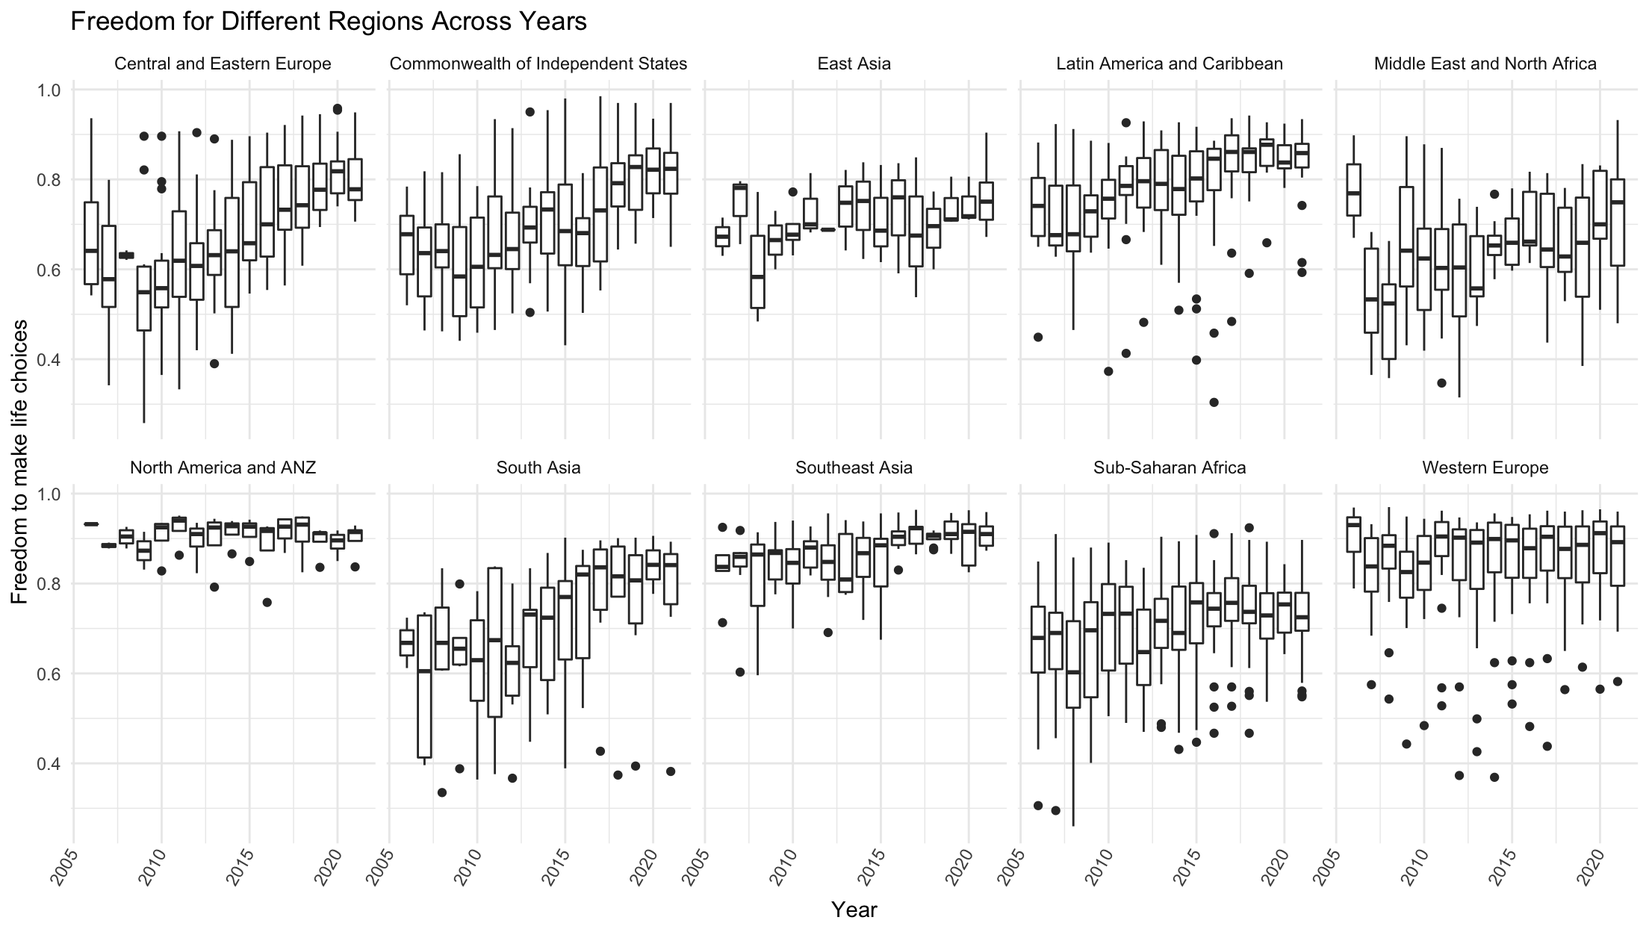
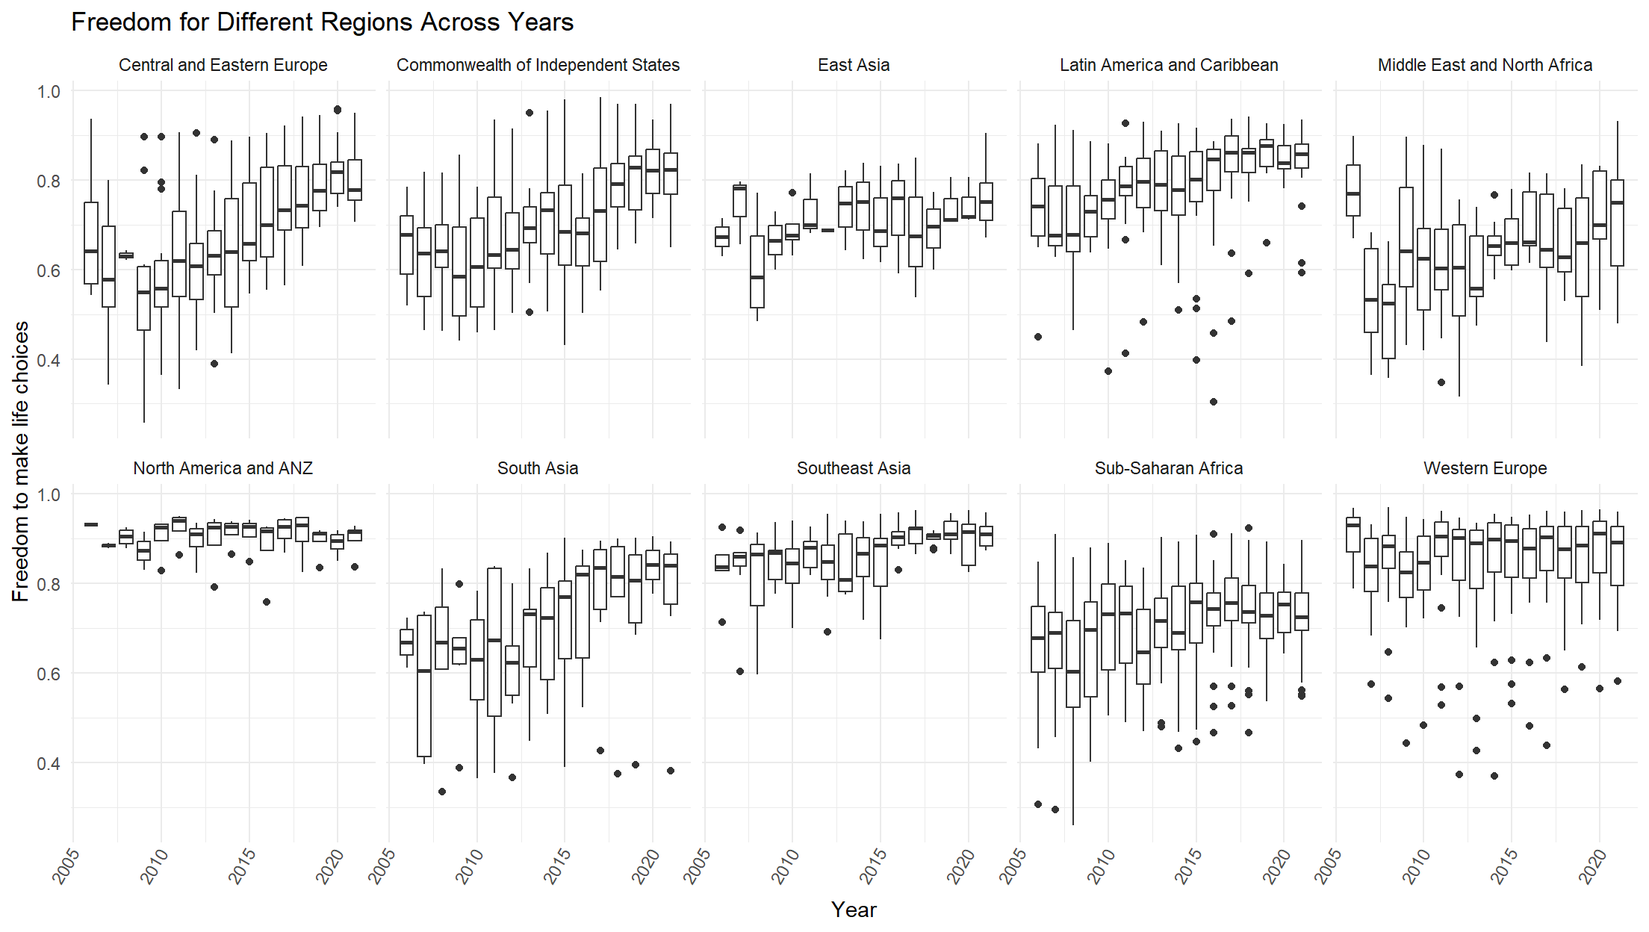
change theme

diff --git a/geospatial.html b/geospatial.html
@@ -16,7 +16,7 @@
 <script src="site_libs/header-attrs-2.18/header-attrs.js"></script>
 <script src="site_libs/jquery-3.6.0/jquery-3.6.0.min.js"></script>
 <meta name="viewport" content="width=device-width, initial-scale=1" />
-<link href="site_libs/bootstrap-3.3.5/css/bootstrap.min.css" rel="stylesheet" />
+<link href="site_libs/bootstrap-3.3.5/css/cosmo.min.css" rel="stylesheet" />
 <script src="site_libs/bootstrap-3.3.5/js/bootstrap.min.js"></script>
 <script src="site_libs/bootstrap-3.3.5/shim/html5shiv.min.js"></script>
 <script src="site_libs/bootstrap-3.3.5/shim/respond.min.js"></script>
@@ -343,8 +343,8 @@ for (i in 1:length(code_name)){
 fig &lt;- plot_ly(happy, type=&#39;choropleth&#39;, locations=happy$code, z=happy$mean_ladder_score, text=happy$country_name,colorscale = &quot;Viridis&quot;)
 
 fig %&gt;% layout(geo = g)</code></pre>
-<div id="htmlwidget-1625172abdde5f74ae58" style="width:672px;height:480px;" class="plotly html-widget"></div>
-<script type="application/json" data-for="htmlwidget-1625172abdde5f74ae58">{"x":{"visdat":{"39604433299f":["function () ","plotlyVisDat"]},"cur_data":"39604433299f","attrs":{"39604433299f":{"locations":["AFG","ALB","DZA","ARG","ARM","AUS","AUT","AZE","BHR","BGD","BLR","BEL","BEN","BOL","BIH","BWA","BRA","BGR","BFA","BDI","KHM","CMR","CAN","TCD","CHL","CHN","COL","COM","COG","CRI","HRV",null,"CZE","DNK","DOM","ECU","EGY","SLV","EST","ETH","FIN","FRA","GAB","GMB","GEO","DEU","GHA","GRC","GTM","GIN","HTI","HND","HKG","HUN","ISL","IND","IDN","IRN","IRQ","IRL","ISR","ITA","CIV","JAM","JPN","JOR","KAZ","KEN","KSV","KWT","KGZ","LAO","LVA","LBN","LSO","LBR","LBY","LTU","LUX","MDG","MWI","MYS","MDV","MLI","MLT","MRT","MUS","MEX","MDA","MNG","MNE","MAR","MOZ","MMR","NAM","NPL","NLD","NZL","NIC","NER","NGA","CYP","MKD","NOR","PAK","PSE","PAN","PRY","PER","PHL","POL","PRT","ROU","RUS","RWA","SAU","SEN","SRB","SLE","SGP","SVK","SVN","ZAF","KOR","ESP","LKA","SWZ","SWE","CHE","TWN","TJK","TZA","THA","TGO","TUN","TUR","TKM","UGA","UKR","ARE","GBR","USA","URY","UZB","VEN","VNM","YEM","ZMB","ZWE"],"z":[3.51223076923077,5.02635714285714,5.141,6.2863125,4.56486666666667,7.27078571428571,7.24407142857143,4.95633333333333,5.77725,4.771375,5.5686,6.95092857142857,4.12461538461538,5.7323125,5.23521428571429,3.95561538461538,6.59614285714286,4.62730769230769,4.21578571428571,3.586,4.27864285714286,4.6548125,7.34628571428571,4.0658,6.345125,5.339,6.23375,3.99328571428571,4.6179,7.172,5.64614285714286,6.10207692307692,6.63558333333333,7.6538,5.2366875,5.742,4.46222222222222,5.95875,5.67013333333333,4.36733333333333,7.61464285714286,6.6428,4.4769,4.81375,4.3200625,6.90428571428571,4.8358125,5.52971428571429,6.26533333333333,4.1997,3.92591666666667,5.42766666666667,5.477,5.36385714285714,7.449125,4.37126666666667,5.2354,4.87733333333333,4.6875,7.06886666666667,7.21733333333333,6.2606,4.6755,5.87285714285714,5.97871428571429,5.331,5.82775,4.4156875,6.372,6.39125,5.20575,5.02011111111111,5.46753333333333,4.91678571428571,3.905,4.1051,5.527,5.8526875,7.07025,4.00154545454545,4.01976923076923,5.76376923076923,5.198,4.28328571428571,6.65385714285714,4.39828571428571,5.887,6.68033333333333,5.6230625,5.10228571428571,5.331,5.0733,4.69588888888889,4.36866666666667,4.59942857142857,4.73964285714286,7.46628571428571,7.30806666666667,5.64973333333333,4.30886666666667,4.99535714285714,5.536,4.92828571428571,7.50145454545455,5.22171428571429,4.4454,6.65013333333333,5.56578571428571,5.61066666666667,5.256875,5.97078571428571,5.47621428571429,5.60976923076923,5.518125,3.58775,6.48433333333333,4.4878,5.30471428571429,4.09184615384615,6.49761538461538,6.08446153846154,6.08271428571429,4.86446666666667,5.8644,6.4656,4.30964285714286,4.44575,7.3686,7.55036363636364,6.1375,4.86238461538462,3.6926875,6.0810625,3.6102,4.72008333333333,5.25386666666667,5.066,4.324875,4.7741875,6.8145,6.92293333333333,7.0435,6.2724375,5.991,6.11325,5.36936363636364,3.974125,4.5198,3.8365],"text":["Afghanistan","Albania","Algeria","Argentina","Armenia","Australia","Austria","Azerbaijan","Bahrain","Bangladesh","Belarus","Belgium","Benin","Bolivia","Bosnia and Herzegovina","Botswana","Brazil","Bulgaria","Burkina Faso","Burundi","Cambodia","Cameroon","Canada","Chad","Chile","China","Colombia","Comoros","Congo (Brazzaville)","Costa Rica","Croatia","Cyprus","Czech Republic","Denmark","Dominican Republic","Ecuador","Egypt","El Salvador","Estonia","Ethiopia","Finland","France","Gabon","Gambia","Georgia","Germany","Ghana","Greece","Guatemala","Guinea","Haiti","Honduras","Hong Kong S.A.R. of China","Hungary","Iceland","India","Indonesia","Iran","Iraq","Ireland","Israel","Italy","Ivory Coast","Jamaica","Japan","Jordan","Kazakhstan","Kenya","Kosovo","Kuwait","Kyrgyzstan","Laos","Latvia","Lebanon","Lesotho","Liberia","Libya","Lithuania","Luxembourg","Madagascar","Malawi","Malaysia","Maldives","Mali","Malta","Mauritania","Mauritius","Mexico","Moldova","Mongolia","Montenegro","Morocco","Mozambique","Myanmar","Namibia","Nepal","Netherlands","New Zealand","Nicaragua","Niger","Nigeria","North Cyprus","North Macedonia","Norway","Pakistan","Palestinian Territories","Panama","Paraguay","Peru","Philippines","Poland","Portugal","Romania","Russia","Rwanda","Saudi Arabia","Senegal","Serbia","Sierra Leone","Singapore","Slovakia","Slovenia","South Africa","South Korea","Spain","Sri Lanka","Swaziland","Sweden","Switzerland","Taiwan Province of China","Tajikistan","Tanzania","Thailand","Togo","Tunisia","Turkey","Turkmenistan","Uganda","Ukraine","United Arab Emirates","United Kingdom","United States","Uruguay","Uzbekistan","Venezuela","Vietnam","Yemen","Zambia","Zimbabwe"],"colorscale":"Viridis","alpha_stroke":1,"sizes":[10,100],"spans":[1,20],"type":"choropleth"}},"layout":{"margin":{"b":40,"l":60,"t":25,"r":10},"geo":{"projection":{"type":"world"}},"scene":{"zaxis":{"title":[]}},"hovermode":"closest","showlegend":false,"legend":{"yanchor":"top","y":0.5}},"source":"A","config":{"modeBarButtonsToAdd":["hoverclosest","hovercompare"],"showSendToCloud":false},"data":[{"colorbar":{"title":"","ticklen":2,"len":0.5,"lenmode":"fraction","y":1,"yanchor":"top"},"colorscale":"Viridis","showscale":true,"locations":["AFG","ALB","DZA","ARG","ARM","AUS","AUT","AZE","BHR","BGD","BLR","BEL","BEN","BOL","BIH","BWA","BRA","BGR","BFA","BDI","KHM","CMR","CAN","TCD","CHL","CHN","COL","COM","COG","CRI","HRV",null,"CZE","DNK","DOM","ECU","EGY","SLV","EST","ETH","FIN","FRA","GAB","GMB","GEO","DEU","GHA","GRC","GTM","GIN","HTI","HND","HKG","HUN","ISL","IND","IDN","IRN","IRQ","IRL","ISR","ITA","CIV","JAM","JPN","JOR","KAZ","KEN","KSV","KWT","KGZ","LAO","LVA","LBN","LSO","LBR","LBY","LTU","LUX","MDG","MWI","MYS","MDV","MLI","MLT","MRT","MUS","MEX","MDA","MNG","MNE","MAR","MOZ","MMR","NAM","NPL","NLD","NZL","NIC","NER","NGA","CYP","MKD","NOR","PAK","PSE","PAN","PRY","PER","PHL","POL","PRT","ROU","RUS","RWA","SAU","SEN","SRB","SLE","SGP","SVK","SVN","ZAF","KOR","ESP","LKA","SWZ","SWE","CHE","TWN","TJK","TZA","THA","TGO","TUN","TUR","TKM","UGA","UKR","ARE","GBR","USA","URY","UZB","VEN","VNM","YEM","ZMB","ZWE"],"z":[3.51223076923077,5.02635714285714,5.141,6.2863125,4.56486666666667,7.27078571428571,7.24407142857143,4.95633333333333,5.77725,4.771375,5.5686,6.95092857142857,4.12461538461538,5.7323125,5.23521428571429,3.95561538461538,6.59614285714286,4.62730769230769,4.21578571428571,3.586,4.27864285714286,4.6548125,7.34628571428571,4.0658,6.345125,5.339,6.23375,3.99328571428571,4.6179,7.172,5.64614285714286,6.10207692307692,6.63558333333333,7.6538,5.2366875,5.742,4.46222222222222,5.95875,5.67013333333333,4.36733333333333,7.61464285714286,6.6428,4.4769,4.81375,4.3200625,6.90428571428571,4.8358125,5.52971428571429,6.26533333333333,4.1997,3.92591666666667,5.42766666666667,5.477,5.36385714285714,7.449125,4.37126666666667,5.2354,4.87733333333333,4.6875,7.06886666666667,7.21733333333333,6.2606,4.6755,5.87285714285714,5.97871428571429,5.331,5.82775,4.4156875,6.372,6.39125,5.20575,5.02011111111111,5.46753333333333,4.91678571428571,3.905,4.1051,5.527,5.8526875,7.07025,4.00154545454545,4.01976923076923,5.76376923076923,5.198,4.28328571428571,6.65385714285714,4.39828571428571,5.887,6.68033333333333,5.6230625,5.10228571428571,5.331,5.0733,4.69588888888889,4.36866666666667,4.59942857142857,4.73964285714286,7.46628571428571,7.30806666666667,5.64973333333333,4.30886666666667,4.99535714285714,5.536,4.92828571428571,7.50145454545455,5.22171428571429,4.4454,6.65013333333333,5.56578571428571,5.61066666666667,5.256875,5.97078571428571,5.47621428571429,5.60976923076923,5.518125,3.58775,6.48433333333333,4.4878,5.30471428571429,4.09184615384615,6.49761538461538,6.08446153846154,6.08271428571429,4.86446666666667,5.8644,6.4656,4.30964285714286,4.44575,7.3686,7.55036363636364,6.1375,4.86238461538462,3.6926875,6.0810625,3.6102,4.72008333333333,5.25386666666667,5.066,4.324875,4.7741875,6.8145,6.92293333333333,7.0435,6.2724375,5.991,6.11325,5.36936363636364,3.974125,4.5198,3.8365],"text":["Afghanistan","Albania","Algeria","Argentina","Armenia","Australia","Austria","Azerbaijan","Bahrain","Bangladesh","Belarus","Belgium","Benin","Bolivia","Bosnia and Herzegovina","Botswana","Brazil","Bulgaria","Burkina Faso","Burundi","Cambodia","Cameroon","Canada","Chad","Chile","China","Colombia","Comoros","Congo (Brazzaville)","Costa Rica","Croatia","Cyprus","Czech Republic","Denmark","Dominican Republic","Ecuador","Egypt","El Salvador","Estonia","Ethiopia","Finland","France","Gabon","Gambia","Georgia","Germany","Ghana","Greece","Guatemala","Guinea","Haiti","Honduras","Hong Kong S.A.R. of China","Hungary","Iceland","India","Indonesia","Iran","Iraq","Ireland","Israel","Italy","Ivory Coast","Jamaica","Japan","Jordan","Kazakhstan","Kenya","Kosovo","Kuwait","Kyrgyzstan","Laos","Latvia","Lebanon","Lesotho","Liberia","Libya","Lithuania","Luxembourg","Madagascar","Malawi","Malaysia","Maldives","Mali","Malta","Mauritania","Mauritius","Mexico","Moldova","Mongolia","Montenegro","Morocco","Mozambique","Myanmar","Namibia","Nepal","Netherlands","New Zealand","Nicaragua","Niger","Nigeria","North Cyprus","North Macedonia","Norway","Pakistan","Palestinian Territories","Panama","Paraguay","Peru","Philippines","Poland","Portugal","Romania","Russia","Rwanda","Saudi Arabia","Senegal","Serbia","Sierra Leone","Singapore","Slovakia","Slovenia","South Africa","South Korea","Spain","Sri Lanka","Swaziland","Sweden","Switzerland","Taiwan Province of China","Tajikistan","Tanzania","Thailand","Togo","Tunisia","Turkey","Turkmenistan","Uganda","Ukraine","United Arab Emirates","United Kingdom","United States","Uruguay","Uzbekistan","Venezuela","Vietnam","Yemen","Zambia","Zimbabwe"],"type":"choropleth","marker":{"line":{"color":"rgba(31,119,180,1)"}},"frame":null}],"highlight":{"on":"plotly_click","persistent":false,"dynamic":false,"selectize":false,"opacityDim":0.2,"selected":{"opacity":1},"debounce":0},"shinyEvents":["plotly_hover","plotly_click","plotly_selected","plotly_relayout","plotly_brushed","plotly_brushing","plotly_clickannotation","plotly_doubleclick","plotly_deselect","plotly_afterplot","plotly_sunburstclick"],"base_url":"https://plot.ly"},"evals":[],"jsHooks":[]}</script>
+<div id="htmlwidget-b182a664ca8fcbdc848c" style="width:672px;height:480px;" class="plotly html-widget"></div>
+<script type="application/json" data-for="htmlwidget-b182a664ca8fcbdc848c">{"x":{"visdat":{"5aa428dd4482":["function () ","plotlyVisDat"]},"cur_data":"5aa428dd4482","attrs":{"5aa428dd4482":{"locations":["AFG","ALB","DZA","ARG","ARM","AUS","AUT","AZE","BHR","BGD","BLR","BEL","BEN","BOL","BIH","BWA","BRA","BGR","BFA","BDI","KHM","CMR","CAN","TCD","CHL","CHN","COL","COM","COG","CRI","HRV",null,"CZE","DNK","DOM","ECU","EGY","SLV","EST","ETH","FIN","FRA","GAB","GMB","GEO","DEU","GHA","GRC","GTM","GIN","HTI","HND","HKG","HUN","ISL","IND","IDN","IRN","IRQ","IRL","ISR","ITA","CIV","JAM","JPN","JOR","KAZ","KEN","KSV","KWT","KGZ","LAO","LVA","LBN","LSO","LBR","LBY","LTU","LUX","MDG","MWI","MYS","MDV","MLI","MLT","MRT","MUS","MEX","MDA","MNG","MNE","MAR","MOZ","MMR","NAM","NPL","NLD","NZL","NIC","NER","NGA","CYP","MKD","NOR","PAK","PSE","PAN","PRY","PER","PHL","POL","PRT","ROU","RUS","RWA","SAU","SEN","SRB","SLE","SGP","SVK","SVN","ZAF","KOR","ESP","LKA","SWZ","SWE","CHE","TWN","TJK","TZA","THA","TGO","TUN","TUR","TKM","UGA","UKR","ARE","GBR","USA","URY","UZB","VEN","VNM","YEM","ZMB","ZWE"],"z":[3.51223076923077,5.02635714285714,5.141,6.2863125,4.56486666666667,7.27078571428571,7.24407142857143,4.95633333333333,5.77725,4.771375,5.5686,6.95092857142857,4.12461538461538,5.7323125,5.23521428571429,3.95561538461538,6.59614285714286,4.62730769230769,4.21578571428571,3.586,4.27864285714286,4.6548125,7.34628571428571,4.0658,6.345125,5.339,6.23375,3.99328571428571,4.6179,7.172,5.64614285714286,6.10207692307692,6.63558333333333,7.6538,5.2366875,5.742,4.46222222222222,5.95875,5.67013333333333,4.36733333333333,7.61464285714286,6.6428,4.4769,4.81375,4.3200625,6.90428571428571,4.8358125,5.52971428571429,6.26533333333333,4.1997,3.92591666666667,5.42766666666667,5.477,5.36385714285714,7.449125,4.37126666666667,5.2354,4.87733333333333,4.6875,7.06886666666667,7.21733333333333,6.2606,4.6755,5.87285714285714,5.97871428571429,5.331,5.82775,4.4156875,6.372,6.39125,5.20575,5.02011111111111,5.46753333333333,4.91678571428571,3.905,4.1051,5.527,5.8526875,7.07025,4.00154545454545,4.01976923076923,5.76376923076923,5.198,4.28328571428571,6.65385714285714,4.39828571428571,5.887,6.68033333333333,5.6230625,5.10228571428571,5.331,5.0733,4.69588888888889,4.36866666666667,4.59942857142857,4.73964285714286,7.46628571428571,7.30806666666667,5.64973333333333,4.30886666666667,4.99535714285714,5.536,4.92828571428571,7.50145454545455,5.22171428571429,4.4454,6.65013333333333,5.56578571428571,5.61066666666667,5.256875,5.97078571428571,5.47621428571429,5.60976923076923,5.518125,3.58775,6.48433333333333,4.4878,5.30471428571429,4.09184615384615,6.49761538461538,6.08446153846154,6.08271428571429,4.86446666666667,5.8644,6.4656,4.30964285714286,4.44575,7.3686,7.55036363636364,6.1375,4.86238461538462,3.6926875,6.0810625,3.6102,4.72008333333333,5.25386666666667,5.066,4.324875,4.7741875,6.8145,6.92293333333333,7.0435,6.2724375,5.991,6.11325,5.36936363636364,3.974125,4.5198,3.8365],"text":["Afghanistan","Albania","Algeria","Argentina","Armenia","Australia","Austria","Azerbaijan","Bahrain","Bangladesh","Belarus","Belgium","Benin","Bolivia","Bosnia and Herzegovina","Botswana","Brazil","Bulgaria","Burkina Faso","Burundi","Cambodia","Cameroon","Canada","Chad","Chile","China","Colombia","Comoros","Congo (Brazzaville)","Costa Rica","Croatia","Cyprus","Czech Republic","Denmark","Dominican Republic","Ecuador","Egypt","El Salvador","Estonia","Ethiopia","Finland","France","Gabon","Gambia","Georgia","Germany","Ghana","Greece","Guatemala","Guinea","Haiti","Honduras","Hong Kong S.A.R. of China","Hungary","Iceland","India","Indonesia","Iran","Iraq","Ireland","Israel","Italy","Ivory Coast","Jamaica","Japan","Jordan","Kazakhstan","Kenya","Kosovo","Kuwait","Kyrgyzstan","Laos","Latvia","Lebanon","Lesotho","Liberia","Libya","Lithuania","Luxembourg","Madagascar","Malawi","Malaysia","Maldives","Mali","Malta","Mauritania","Mauritius","Mexico","Moldova","Mongolia","Montenegro","Morocco","Mozambique","Myanmar","Namibia","Nepal","Netherlands","New Zealand","Nicaragua","Niger","Nigeria","North Cyprus","North Macedonia","Norway","Pakistan","Palestinian Territories","Panama","Paraguay","Peru","Philippines","Poland","Portugal","Romania","Russia","Rwanda","Saudi Arabia","Senegal","Serbia","Sierra Leone","Singapore","Slovakia","Slovenia","South Africa","South Korea","Spain","Sri Lanka","Swaziland","Sweden","Switzerland","Taiwan Province of China","Tajikistan","Tanzania","Thailand","Togo","Tunisia","Turkey","Turkmenistan","Uganda","Ukraine","United Arab Emirates","United Kingdom","United States","Uruguay","Uzbekistan","Venezuela","Vietnam","Yemen","Zambia","Zimbabwe"],"colorscale":"Viridis","alpha_stroke":1,"sizes":[10,100],"spans":[1,20],"type":"choropleth"}},"layout":{"margin":{"b":40,"l":60,"t":25,"r":10},"geo":{"projection":{"type":"world"}},"scene":{"zaxis":{"title":[]}},"hovermode":"closest","showlegend":false,"legend":{"yanchor":"top","y":0.5}},"source":"A","config":{"modeBarButtonsToAdd":["hoverclosest","hovercompare"],"showSendToCloud":false},"data":[{"colorbar":{"title":"","ticklen":2,"len":0.5,"lenmode":"fraction","y":1,"yanchor":"top"},"colorscale":"Viridis","showscale":true,"locations":["AFG","ALB","DZA","ARG","ARM","AUS","AUT","AZE","BHR","BGD","BLR","BEL","BEN","BOL","BIH","BWA","BRA","BGR","BFA","BDI","KHM","CMR","CAN","TCD","CHL","CHN","COL","COM","COG","CRI","HRV",null,"CZE","DNK","DOM","ECU","EGY","SLV","EST","ETH","FIN","FRA","GAB","GMB","GEO","DEU","GHA","GRC","GTM","GIN","HTI","HND","HKG","HUN","ISL","IND","IDN","IRN","IRQ","IRL","ISR","ITA","CIV","JAM","JPN","JOR","KAZ","KEN","KSV","KWT","KGZ","LAO","LVA","LBN","LSO","LBR","LBY","LTU","LUX","MDG","MWI","MYS","MDV","MLI","MLT","MRT","MUS","MEX","MDA","MNG","MNE","MAR","MOZ","MMR","NAM","NPL","NLD","NZL","NIC","NER","NGA","CYP","MKD","NOR","PAK","PSE","PAN","PRY","PER","PHL","POL","PRT","ROU","RUS","RWA","SAU","SEN","SRB","SLE","SGP","SVK","SVN","ZAF","KOR","ESP","LKA","SWZ","SWE","CHE","TWN","TJK","TZA","THA","TGO","TUN","TUR","TKM","UGA","UKR","ARE","GBR","USA","URY","UZB","VEN","VNM","YEM","ZMB","ZWE"],"z":[3.51223076923077,5.02635714285714,5.141,6.2863125,4.56486666666667,7.27078571428571,7.24407142857143,4.95633333333333,5.77725,4.771375,5.5686,6.95092857142857,4.12461538461538,5.7323125,5.23521428571429,3.95561538461538,6.59614285714286,4.62730769230769,4.21578571428571,3.586,4.27864285714286,4.6548125,7.34628571428571,4.0658,6.345125,5.339,6.23375,3.99328571428571,4.6179,7.172,5.64614285714286,6.10207692307692,6.63558333333333,7.6538,5.2366875,5.742,4.46222222222222,5.95875,5.67013333333333,4.36733333333333,7.61464285714286,6.6428,4.4769,4.81375,4.3200625,6.90428571428571,4.8358125,5.52971428571429,6.26533333333333,4.1997,3.92591666666667,5.42766666666667,5.477,5.36385714285714,7.449125,4.37126666666667,5.2354,4.87733333333333,4.6875,7.06886666666667,7.21733333333333,6.2606,4.6755,5.87285714285714,5.97871428571429,5.331,5.82775,4.4156875,6.372,6.39125,5.20575,5.02011111111111,5.46753333333333,4.91678571428571,3.905,4.1051,5.527,5.8526875,7.07025,4.00154545454545,4.01976923076923,5.76376923076923,5.198,4.28328571428571,6.65385714285714,4.39828571428571,5.887,6.68033333333333,5.6230625,5.10228571428571,5.331,5.0733,4.69588888888889,4.36866666666667,4.59942857142857,4.73964285714286,7.46628571428571,7.30806666666667,5.64973333333333,4.30886666666667,4.99535714285714,5.536,4.92828571428571,7.50145454545455,5.22171428571429,4.4454,6.65013333333333,5.56578571428571,5.61066666666667,5.256875,5.97078571428571,5.47621428571429,5.60976923076923,5.518125,3.58775,6.48433333333333,4.4878,5.30471428571429,4.09184615384615,6.49761538461538,6.08446153846154,6.08271428571429,4.86446666666667,5.8644,6.4656,4.30964285714286,4.44575,7.3686,7.55036363636364,6.1375,4.86238461538462,3.6926875,6.0810625,3.6102,4.72008333333333,5.25386666666667,5.066,4.324875,4.7741875,6.8145,6.92293333333333,7.0435,6.2724375,5.991,6.11325,5.36936363636364,3.974125,4.5198,3.8365],"text":["Afghanistan","Albania","Algeria","Argentina","Armenia","Australia","Austria","Azerbaijan","Bahrain","Bangladesh","Belarus","Belgium","Benin","Bolivia","Bosnia and Herzegovina","Botswana","Brazil","Bulgaria","Burkina Faso","Burundi","Cambodia","Cameroon","Canada","Chad","Chile","China","Colombia","Comoros","Congo (Brazzaville)","Costa Rica","Croatia","Cyprus","Czech Republic","Denmark","Dominican Republic","Ecuador","Egypt","El Salvador","Estonia","Ethiopia","Finland","France","Gabon","Gambia","Georgia","Germany","Ghana","Greece","Guatemala","Guinea","Haiti","Honduras","Hong Kong S.A.R. of China","Hungary","Iceland","India","Indonesia","Iran","Iraq","Ireland","Israel","Italy","Ivory Coast","Jamaica","Japan","Jordan","Kazakhstan","Kenya","Kosovo","Kuwait","Kyrgyzstan","Laos","Latvia","Lebanon","Lesotho","Liberia","Libya","Lithuania","Luxembourg","Madagascar","Malawi","Malaysia","Maldives","Mali","Malta","Mauritania","Mauritius","Mexico","Moldova","Mongolia","Montenegro","Morocco","Mozambique","Myanmar","Namibia","Nepal","Netherlands","New Zealand","Nicaragua","Niger","Nigeria","North Cyprus","North Macedonia","Norway","Pakistan","Palestinian Territories","Panama","Paraguay","Peru","Philippines","Poland","Portugal","Romania","Russia","Rwanda","Saudi Arabia","Senegal","Serbia","Sierra Leone","Singapore","Slovakia","Slovenia","South Africa","South Korea","Spain","Sri Lanka","Swaziland","Sweden","Switzerland","Taiwan Province of China","Tajikistan","Tanzania","Thailand","Togo","Tunisia","Turkey","Turkmenistan","Uganda","Ukraine","United Arab Emirates","United Kingdom","United States","Uruguay","Uzbekistan","Venezuela","Vietnam","Yemen","Zambia","Zimbabwe"],"type":"choropleth","marker":{"line":{"color":"rgba(31,119,180,1)"}},"frame":null}],"highlight":{"on":"plotly_click","persistent":false,"dynamic":false,"selectize":false,"opacityDim":0.2,"selected":{"opacity":1},"debounce":0},"shinyEvents":["plotly_hover","plotly_click","plotly_selected","plotly_relayout","plotly_brushed","plotly_brushing","plotly_clickannotation","plotly_doubleclick","plotly_deselect","plotly_afterplot","plotly_sunburstclick"],"base_url":"https://plot.ly"},"evals":[],"jsHooks":[]}</script>
 
 
 

diff --git a/visualization.html b/visualization.html
@@ -13,10 +13,10 @@
 
 <title>Visualization</title>
 
-<script src="site_libs/header-attrs-2.16/header-attrs.js"></script>
+<script src="site_libs/header-attrs-2.18/header-attrs.js"></script>
 <script src="site_libs/jquery-3.6.0/jquery-3.6.0.min.js"></script>
 <meta name="viewport" content="width=device-width, initial-scale=1" />
-<link href="site_libs/bootstrap-3.3.5/css/bootstrap.min.css" rel="stylesheet" />
+<link href="site_libs/bootstrap-3.3.5/css/cosmo.min.css" rel="stylesheet" />
 <script src="site_libs/bootstrap-3.3.5/js/bootstrap.min.js"></script>
 <script src="site_libs/bootstrap-3.3.5/shim/html5shiv.min.js"></script>
 <script src="site_libs/bootstrap-3.3.5/shim/respond.min.js"></script>
@@ -182,8 +182,8 @@ $(document).ready(function () {
   border-radius: 4px;
 }
 
-.tabset-dropdown > .nav-tabs > li.active:before {
-  content: "";
+.tabset-dropdown > .nav-tabs > li.active:before, .tabset-dropdown > .nav-tabs.nav-tabs-open:before {
+  content: "\e259";
   font-family: 'Glyphicons Halflings';
   display: inline-block;
   padding: 10px;
@@ -191,16 +191,9 @@ $(document).ready(function () {
 }
 
 .tabset-dropdown > .nav-tabs.nav-tabs-open > li.active:before {
-  content: "&#xe258;";
-  border: none;
-}
-
-.tabset-dropdown > .nav-tabs.nav-tabs-open:before {
-  content: "";
+  content: "\e258";
   font-family: 'Glyphicons Halflings';
-  display: inline-block;
-  padding: 10px;
-  border-right: 1px solid #ddd;
+  border: none;
 }
 
 .tabset-dropdown > .nav-tabs > li.active {

diff --git a/regression_analysis.html b/regression_analysis.html
@@ -18,7 +18,7 @@
 <script src="site_libs/header-attrs-2.18/header-attrs.js"></script>
 <script src="site_libs/jquery-3.6.0/jquery-3.6.0.min.js"></script>
 <meta name="viewport" content="width=device-width, initial-scale=1" />
-<link href="site_libs/bootstrap-3.3.5/css/bootstrap.min.css" rel="stylesheet" />
+<link href="site_libs/bootstrap-3.3.5/css/cosmo.min.css" rel="stylesheet" />
 <script src="site_libs/bootstrap-3.3.5/js/bootstrap.min.js"></script>
 <script src="site_libs/bootstrap-3.3.5/shim/html5shiv.min.js"></script>
 <script src="site_libs/bootstrap-3.3.5/shim/respond.min.js"></script>

diff --git a/statistical_tests.html b/statistical_tests.html
@@ -17,7 +17,7 @@
 <script src="site_libs/header-attrs-2.18/header-attrs.js"></script>
 <script src="site_libs/jquery-3.6.0/jquery-3.6.0.min.js"></script>
 <meta name="viewport" content="width=device-width, initial-scale=1" />
-<link href="site_libs/bootstrap-3.3.5/css/bootstrap.min.css" rel="stylesheet" />
+<link href="site_libs/bootstrap-3.3.5/css/cosmo.min.css" rel="stylesheet" />
 <script src="site_libs/bootstrap-3.3.5/js/bootstrap.min.js"></script>
 <script src="site_libs/bootstrap-3.3.5/shim/html5shiv.min.js"></script>
 <script src="site_libs/bootstrap-3.3.5/shim/respond.min.js"></script>

diff --git a/PCA-Analysis.html b/PCA-Analysis.html
@@ -11,7 +11,7 @@
 
 
 
-<title>Final Project</title>
+<title>PCA-Analysis.knit</title>
 
 <script src="site_libs/header-attrs-2.18/header-attrs.js"></script>
 <script src="site_libs/jquery-3.6.0/jquery-3.6.0.min.js"></script>
@@ -284,15 +284,11 @@ $(document).ready(function () {
 
 
 
-<h1 class="title toc-ignore">Final Project</h1>
 
 </div>
 
 
-<p>Final Project: overview might be inserted here</p>
-<pre class="r"><code>hello &lt;- &quot;hello&quot;
-hello</code></pre>
-<pre><code>## [1] &quot;hello&quot;</code></pre>
+
 
 
 
